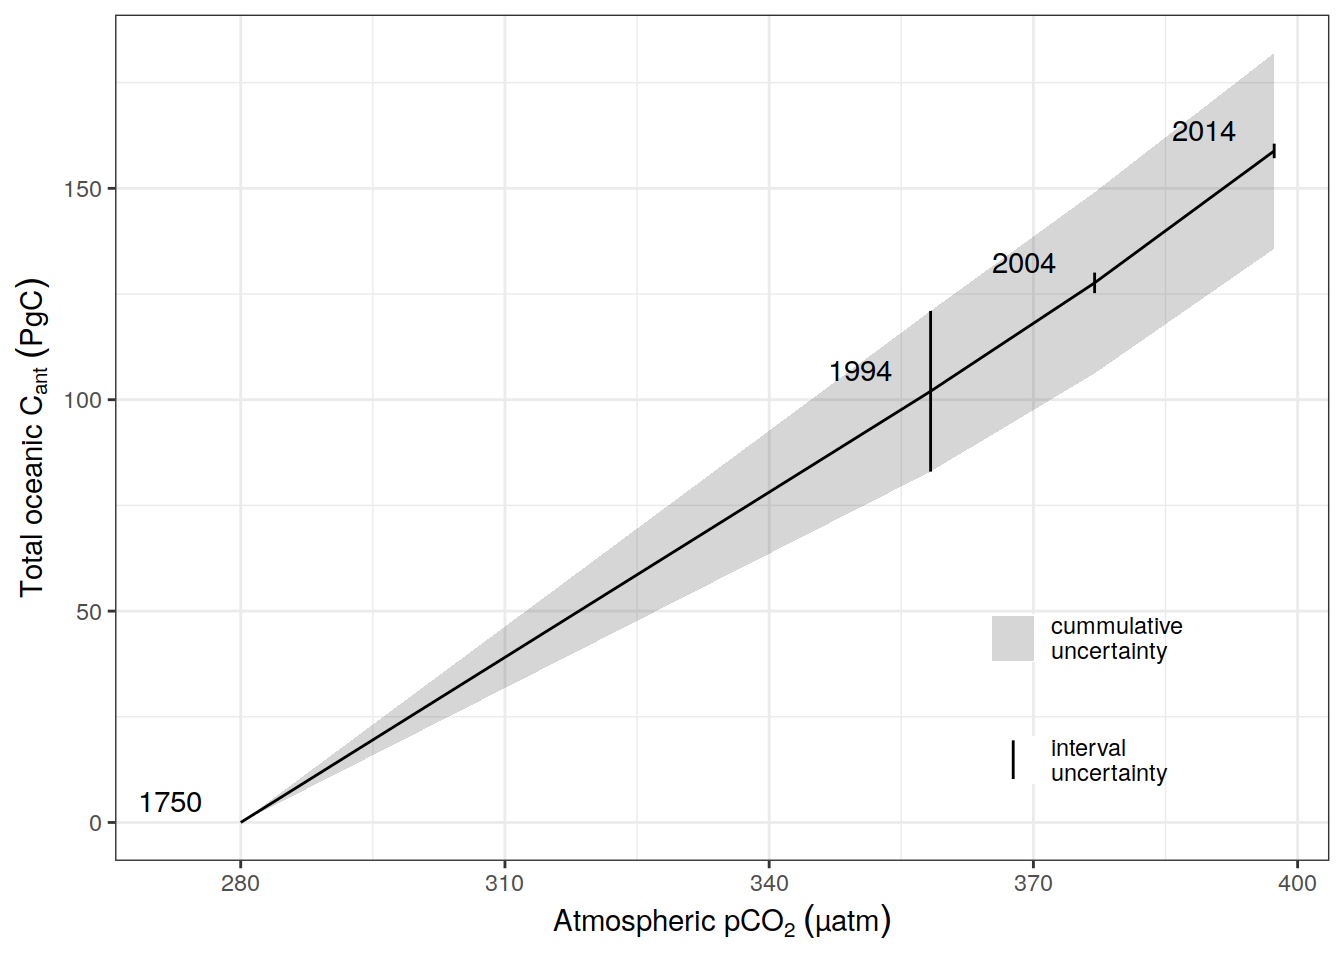
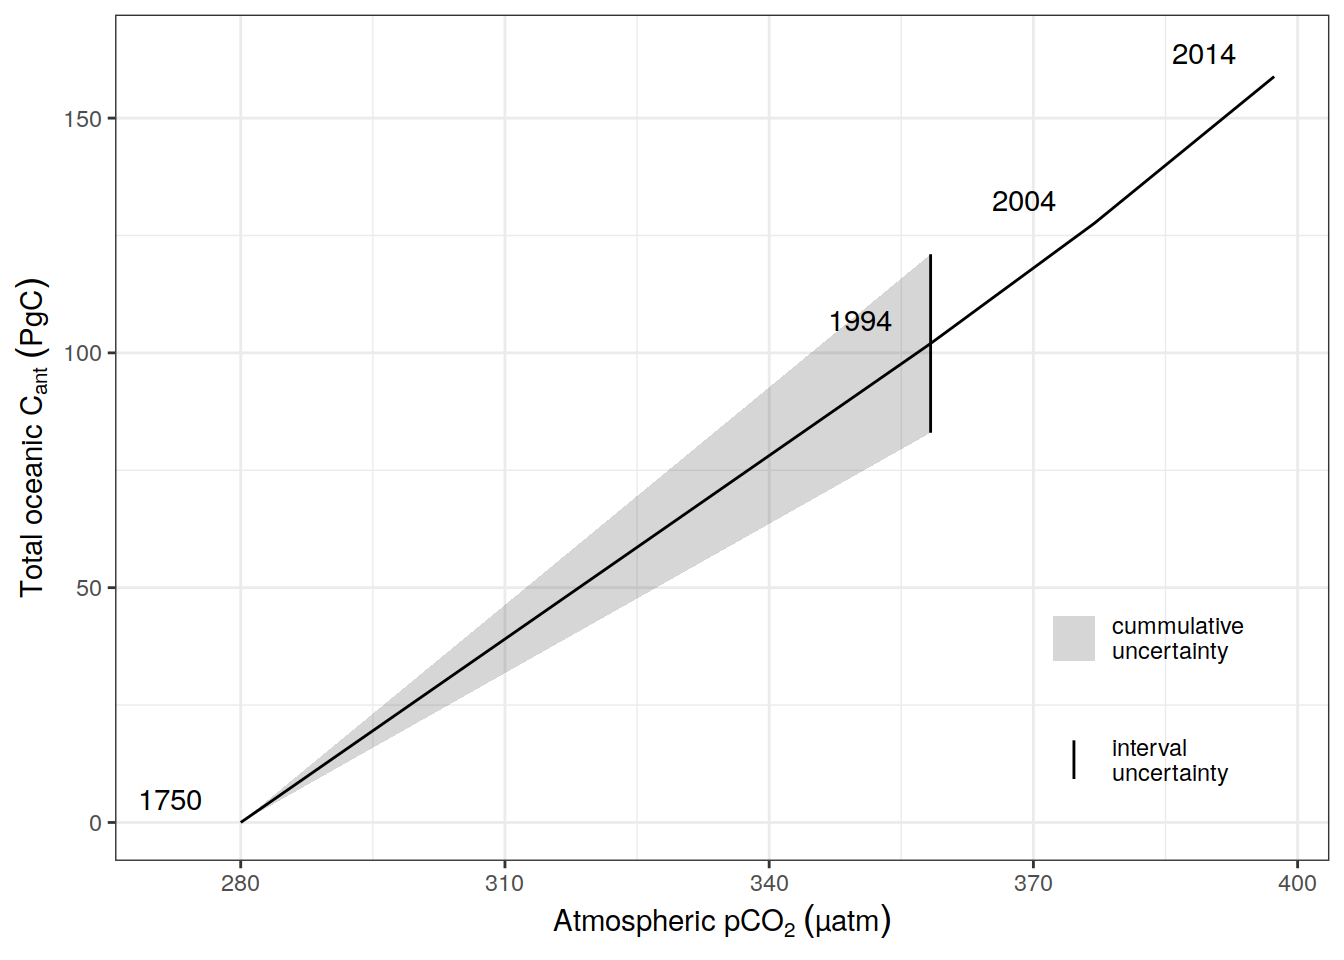
Build site.

diff --git a/docs/results_publication.html b/docs/results_publication.html
@@ -673,16 +673,16 @@ This reproducible <a href="https://rmarkdown.rstudio.com">R Markdown</a> analysi
 <div class="panel panel-default">
 <div class="panel-heading">
 <p class="panel-title">
-<a data-toggle="collapse" data-parent="#workflowr-checks" href="#strongRepositoryversionstrongahrefhttpsgithubcomjensdanielmuelleremlrobsanalysistreea332fe6ec6a85d2bb6d5434b693b2204ba5dff63targetblanka332fe6a"> <span class="glyphicon glyphicon-ok text-success" aria-hidden="true"></span> <strong>Repository version:</strong> <a href="https://github.com/jens-daniel-mueller/emlr_obs_analysis/tree/a332fe6ec6a85d2bb6d5434b693b2204ba5dff63" target="_blank">a332fe6</a> </a>
+<a data-toggle="collapse" data-parent="#workflowr-checks" href="#strongRepositoryversionstrongahrefhttpsgithubcomjensdanielmuelleremlrobsanalysistreea3d8469a8e553e3f131ce65c5a45b11c897fe623targetblanka3d8469a"> <span class="glyphicon glyphicon-ok text-success" aria-hidden="true"></span> <strong>Repository version:</strong> <a href="https://github.com/jens-daniel-mueller/emlr_obs_analysis/tree/a3d8469a8e553e3f131ce65c5a45b11c897fe623" target="_blank">a3d8469</a> </a>
 </p>
 </div>
[2 lines of base64/hex data omitted]
 <div class="panel-body">
 <p>
 Great! You are using Git for version control. Tracking code development and connecting the code version to the results is critical for reproducibility.
 </p>
 <p>
-The results in this page were generated with repository version <a href="https://github.com/jens-daniel-mueller/emlr_obs_analysis/tree/a332fe6ec6a85d2bb6d5434b693b2204ba5dff63" target="_blank">a332fe6</a>. See the <em>Past versions</em> tab to see a history of the changes made to the R Markdown and HTML files.
+The results in this page were generated with repository version <a href="https://github.com/jens-daniel-mueller/emlr_obs_analysis/tree/a3d8469a8e553e3f131ce65c5a45b11c897fe623" target="_blank">a3d8469</a>. See the <em>Past versions</em> tab to see a history of the changes made to the R Markdown and HTML files.
 </p>
 <p>
 Note that you need to be careful to ensure that all relevant files for the analysis have been committed to Git prior to generating the results (you can use <code>wflow_publish</code> or <code>wflow_git_commit</code>). workflowr only checks the R Markdown file, but you know if there are other scripts or data files that it depends on. Below is the status of the Git repository when the results were generated:
@@ -732,6 +732,40 @@ Message
 </tr>
 </thead>
 <tbody>
+<tr>
+<td>
+Rmd
+</td>
+<td>
+<a href="https://github.com/jens-daniel-mueller/emlr_obs_analysis/blob/a3d8469a8e553e3f131ce65c5a45b11c897fe623/analysis/results_publication.Rmd" target="_blank">a3d8469</a>
+</td>
+<td>
+jens-daniel-mueller
+</td>
+<td>
+2022-02-02
+</td>
+<td>
+ensemble uncertainties in global buget
+</td>
+</tr>
+<tr>
+<td>
+html
+</td>
+<td>
+<a href="https://rawcdn.githack.com/jens-daniel-mueller/emlr_obs_analysis/7fb28a2b15f3d056c220986c37e19ff999185164/docs/results_publication.html" target="_blank">7fb28a2</a>
+</td>
+<td>
+jens-daniel-mueller
+</td>
+<td>
+2022-02-02
+</td>
+<td>
+Build site.
+</td>
+</tr>
 <tr>
 <td>
 Rmd
@@ -4811,11 +4845,31 @@ jens-daniel-mueller
 </table>
 </div>
 </div>
+<pre class="r"><code>dcant_budget_basin_MLR_all_ensemble %&gt;%
+  filter(data_source == &quot;obs&quot;) %&gt;% 
+  mutate(class = str_sub(Version_ID, 4, 4)) %&gt;% 
+  ggplot(aes(dcant)) +
+  geom_histogram() +
+  geom_density() +
+  facet_grid(basin ~ period, scales = &quot;free&quot;)</code></pre>
+<p><img src="figure/results_publication.Rmd/dcant_budget_basin_ensemble-2.png" width="672" style="display: block; margin: auto;" /></p>
 <pre class="r"><code>dcant_budget_basin_MLR_all_ensemble_summary &lt;- dcant_budget_basin_MLR_all_ensemble %&gt;% 
   group_by(data_source, basin, period) %&gt;% 
   summarise(dcant_mean = mean(dcant),
-            dcant_sd = sd(dcant)) %&gt;% 
-  ungroup()</code></pre>
+            dcant_sd = sd(dcant)*2) %&gt;% 
+  ungroup()
+
+dcant_budget_global_all_ensemble_summary &lt;-
+  dcant_budget_basin_MLR_all_ensemble %&gt;%
+  filter(period != &quot;1994 - 2014&quot;) %&gt;%
+  group_by(data_source, Version_ID, tref1, tref2, period) %&gt;%
+  summarise(dcant = sum(dcant)) %&gt;%
+  ungroup() %&gt;%
+  group_by(data_source, tref1, tref2, period) %&gt;%
+  summarise(dcant_mean = mean(dcant),
+            dcant_sd = sd(dcant)*2) %&gt;%
+  ungroup() %&gt;%
+  filter(data_source == &quot;obs&quot;)</code></pre>
 </div>
 <div id="basin-hemisphere" class="section level2" number="7.2">
 <h2><span class="header-section-number">7.2</span> Basin &amp; hemisphere</h2>
@@ -5205,6 +5259,21 @@ dcant_budget_basin_MLR_all_plot &lt;- dcant_budget_basin_MLR_all_plot %&gt;%
   mutate(delta_pCO2 = pCO22 - pCO21,
          dcant_scaled = dcant / delta_pCO2,
          dcant_sd_scaled = dcant_sd / delta_pCO2) %&gt;% 
+  select(-starts_with(&quot;pCO2&quot;))
+
+
+dcant_budget_global_all_ensemble_summary &lt;- left_join(dcant_budget_global_all_ensemble_summary,
+                           co2_atm %&gt;% rename(tref1 = year,
+                                              pCO21 = pCO2))
+
+dcant_budget_global_all_ensemble_summary &lt;- left_join(dcant_budget_global_all_ensemble_summary,
+                           co2_atm %&gt;% rename(tref2 = year,
+                                              pCO22 = pCO2))
+
+dcant_budget_global_all_ensemble_summary &lt;- dcant_budget_global_all_ensemble_summary %&gt;% 
+  mutate(delta_pCO2 = pCO22 - pCO21,
+         dcant_scaled = dcant_mean / delta_pCO2,
+         dcant_sd_scaled = dcant_sd / delta_pCO2) %&gt;% 
   select(-starts_with(&quot;pCO2&quot;))</code></pre>
 <pre class="r"><code>g2 &lt;- dcant_budget_basin_MLR_all_plot %&gt;%
   filter(period != &quot;1750 - 1994&quot;) %&gt;% 
@@ -5493,11 +5562,6 @@ jens-daniel-mueller
   )) +
   geom_alluvium() +
   geom_stratum() +
-  # stat_stratum(geom = &quot;text&quot;,
-  #              aes(label = paste(
-  #                round(after_stat(count),2)
-  #                # 100*round(after_stat(prop), 2), &quot;%&quot;
-  #                ))) +
   ggrepel::geom_label_repel(
     data = dcant_budget_basin_MLR_all_plot %&gt;% filter(period == &quot;2004 - 2014&quot;),
     stat = &quot;stratum&quot;,
@@ -5508,7 +5572,7 @@ jens-daniel-mueller
   )+
   scale_fill_brewer(palette = &quot;Paired&quot;, guide = &quot;none&quot;) +
   scale_color_brewer(palette = &quot;Paired&quot;, guide = &quot;none&quot;) +
-  scale_y_continuous(limits = c(0, 1.7), expand = c(0, 0)) +
+  scale_y_continuous(limits = c(0, 1.8), expand = c(0, 0)) +
   guides(y = &quot;none&quot;) +
   labs(title = dcant_pgc_scaled_label) +
   theme_classic() +
@@ -5554,7 +5618,7 @@ uncertainty_layer_basin &lt;- bind_cols(
 
 uncertainty_layer_basin &lt;- uncertainty_layer_basin %&gt;% 
   mutate(dcant_sd_scaled = as.character(round(dcant_sd_scaled,2)),
-         dcant_sd_scaled = paste(&quot;±&quot;,dcant_sd_scaled))
+         dcant_sd_scaled = paste0(&quot;±&quot;,dcant_sd_scaled))
 
 # construct change labels
 
@@ -5581,6 +5645,8 @@ new_layer_basin &lt;- new_layer_basin %&gt;%
                                 paste0(&quot;+&quot;, dcant_change)),
          dcant_change = paste(dcant_change, &quot;%&quot;))
 
+# construct global budget labels
+
 new_layer_total &lt;- 
   newdat %&gt;% 
   select(x, alluvium, count) %&gt;% 
@@ -5588,10 +5654,18 @@ new_layer_total &lt;-
   summarise(dcant_change = sum(count)) %&gt;% 
   ungroup()
 
+dcant_sd_scaled &lt;- round(c(
+  0.24,
+  dcant_budget_global_all_ensemble_summary %&gt;%
+    pull(dcant_sd_scaled)
+), 2)
+
+new_layer_total &lt;- bind_cols(new_layer_total, dcant_sd_scaled = dcant_sd_scaled)
+
 new_layer_total &lt;- new_layer_total %&gt;% 
   mutate(y = dcant_change,
          dcant_change = as.character(round(dcant_change,2)),
-         dcant_change = paste(&quot;global:&quot;,dcant_change))
+         dcant_change = paste0(dcant_change, &quot;\n±&quot;, dcant_sd_scaled))
 
 g2 +
   geom_text(data = budget_layer_basin,
@@ -5618,7 +5692,7 @@ g2 +
   geom_label(data = new_layer_total,
             aes(
               x = x,
-              y = y + 0.1,
+              y = y + 0.13,
               label = dcant_change
             ),
             inherit.aes = FALSE)</code></pre>
@@ -5645,6 +5719,17 @@ Date
 </tr>
 </thead>
 <tbody>
+<tr>
+<td>
+<a href="https://github.com/jens-daniel-mueller/emlr_obs_analysis/blob/7fb28a2b15f3d056c220986c37e19ff999185164/docs/figure/results_publication.Rmd/budgets_basins_hemisphere_alluvial_order_basin_scaled_incl_sabine_uncertainty-1.png" target="_blank">7fb28a2</a>
+</td>
+<td>
+jens-daniel-mueller
+</td>
+<td>
+2022-02-02
+</td>
+</tr>
 <tr>
 <td>
 <a href="https://github.com/jens-daniel-mueller/emlr_obs_analysis/blob/49097e851c06f1ca23625dca180b53b7fbcb1c99/docs/figure/results_publication.Rmd/budgets_basins_hemisphere_alluvial_order_basin_scaled_incl_sabine_uncertainty-1.png" target="_blank">49097e8</a>
@@ -6109,20 +6194,7 @@ jens-daniel-mueller
 </div>
 <div id="time-series" class="section level1" number="8">
 <h1><span class="header-section-number">8</span> Time series</h1>
-<pre class="r"><code>dcant_budget_global_all_ensemble_summary &lt;-
-  dcant_budget_basin_MLR_all_ensemble %&gt;%
-  filter(period != &quot;1994 - 2014&quot;) %&gt;%
-  group_by(data_source, Version_ID, tref2) %&gt;%
-  summarise(dcant = sum(dcant)) %&gt;%
-  ungroup() %&gt;%
-  group_by(data_source, tref2) %&gt;%
-  summarise(dcant_mean = mean(dcant),
-            dcant_sd = sd(dcant)*2) %&gt;%
-  ungroup() %&gt;%
-  filter(data_source == &quot;obs&quot;) %&gt;%
-  select(year = tref2, dcant_sd)
-
-dcant_budget_global_ts &lt;- dcant_budget_global_all %&gt;% 
+<pre class="r"><code>dcant_budget_global_ts &lt;- dcant_budget_global_all %&gt;% 
   filter(data_source == &quot;obs&quot;,
          period != &quot;1994 - 2014&quot;) %&gt;% 
   select(year = tref2, dcant_mean = dcant)
@@ -6164,7 +6236,7 @@ tcant_ts %&gt;%
        y = expression(Total~oceanic~C[ant]~(PgC))) +
   theme(legend.title = element_blank(),
         legend.background = element_rect(fill = &quot;transparent&quot;),
-        legend.position=c(0.8, 0.2))</code></pre>
+        legend.position=c(0.85, 0.2))</code></pre>
 <p><img src="figure/results_publication.Rmd/mean_tcant_over_atm_co2-1.png" width="672" style="display: block; margin: auto;" /></p>
 <p>
 <button type="button" class="btn btn-default btn-xs btn-workflowr btn-workflowr-fig" data-toggle="collapse" data-target="#fig-mean_tcant_over_atm_co2-1">
@@ -6188,6 +6260,17 @@ Date
 </tr>
 </thead>
 <tbody>
+<tr>
+<td>
+<a href="https://github.com/jens-daniel-mueller/emlr_obs_analysis/blob/7fb28a2b15f3d056c220986c37e19ff999185164/docs/figure/results_publication.Rmd/mean_tcant_over_atm_co2-1.png" target="_blank">7fb28a2</a>
+</td>
+<td>
+jens-daniel-mueller
+</td>
+<td>
+2022-02-02
+</td>
+</tr>
 <tr>
 <td>
 <a href="https://github.com/jens-daniel-mueller/emlr_obs_analysis/blob/76550850f9e9bed6b874655dc06d382303d020c9/docs/figure/results_publication.Rmd/mean_tcant_over_atm_co2-1.png" target="_blank">7655085</a>
